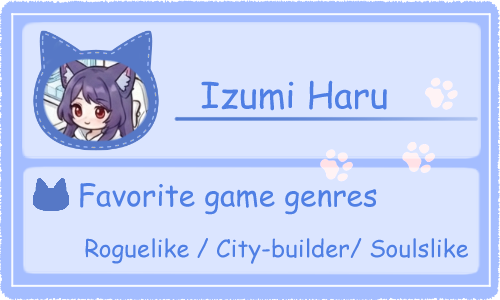
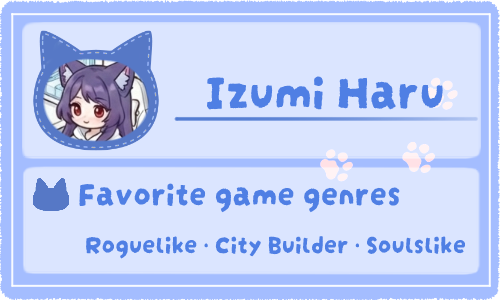
font change

diff --git a/src/components/SubMenuContent.tsx b/src/components/SubMenuContent.tsx
@@ -29,6 +29,7 @@ const SubMenuContent: React.FC<SubMenuContentProps> = ({
                         className={styles.submenuButton}
                         onClick={() => onItemSelect(() => onProfileSelect('/owner.png'))}
                     >
+                        <Image src="/cat.png" alt="icon" width={20} height={20} />
                         Owner
                     </button>
                 </li>
@@ -37,6 +38,7 @@ const SubMenuContent: React.FC<SubMenuContentProps> = ({
                         className={styles.submenuButton}
                         onClick={onCatsToggle}
                     >
+                        <Image src="/cat.png" alt="icon" width={20} height={20} />
                         Cats
                     </button>
                     {isCatsOpen && (

diff --git a/src/app/layout.tsx b/src/app/layout.tsx
@@ -1,11 +1,15 @@
 import type { Metadata } from "next";
-import { Inter } from "next/font/google";
+import { Darumadrop_One } from "next/font/google";
 import "./globals.css";
 
-const inter = Inter({ subsets: ["latin"], variable: "--font-inter" });
+const darumadrop = Darumadrop_One({
+  weight: "400",
+  subsets: ["latin"],
+  variable: "--font-daruma"
+});
 
 export const metadata: Metadata = {
-  title: "Personal Website",
+  title: "泉水家のページ",
   description: "My personal portfolio and website",
 };
 
@@ -16,7 +20,7 @@ export default function RootLayout({
 }>) {
   return (
     <html lang="en">
-      <body className={inter.variable}>
+      <body className={darumadrop.variable}>
         {children}
       </body>
     </html>

diff --git a/src/app/globals.css b/src/app/globals.css
@@ -16,7 +16,7 @@ body {
   overflow-x: hidden;
   background-color: var(--background);
   color: var(--foreground);
-  font-family: var(--font-sans);
+  font-family: var(--font-daruma), cursive;
   -webkit-font-smoothing: antialiased;
   -moz-osx-font-smoothing: grayscale;
 }

diff --git a/src/components/Bubble.module.css b/src/components/Bubble.module.css
@@ -5,7 +5,6 @@
     padding: 1rem 1.5rem;
     border-radius: 20px;
     box-shadow: 0 4px 15px rgba(0, 0, 0, 0.2);
-    font-family: var(--font-sans);
     font-weight: 500;
     max-width: 250px;
     z-index: 10;
